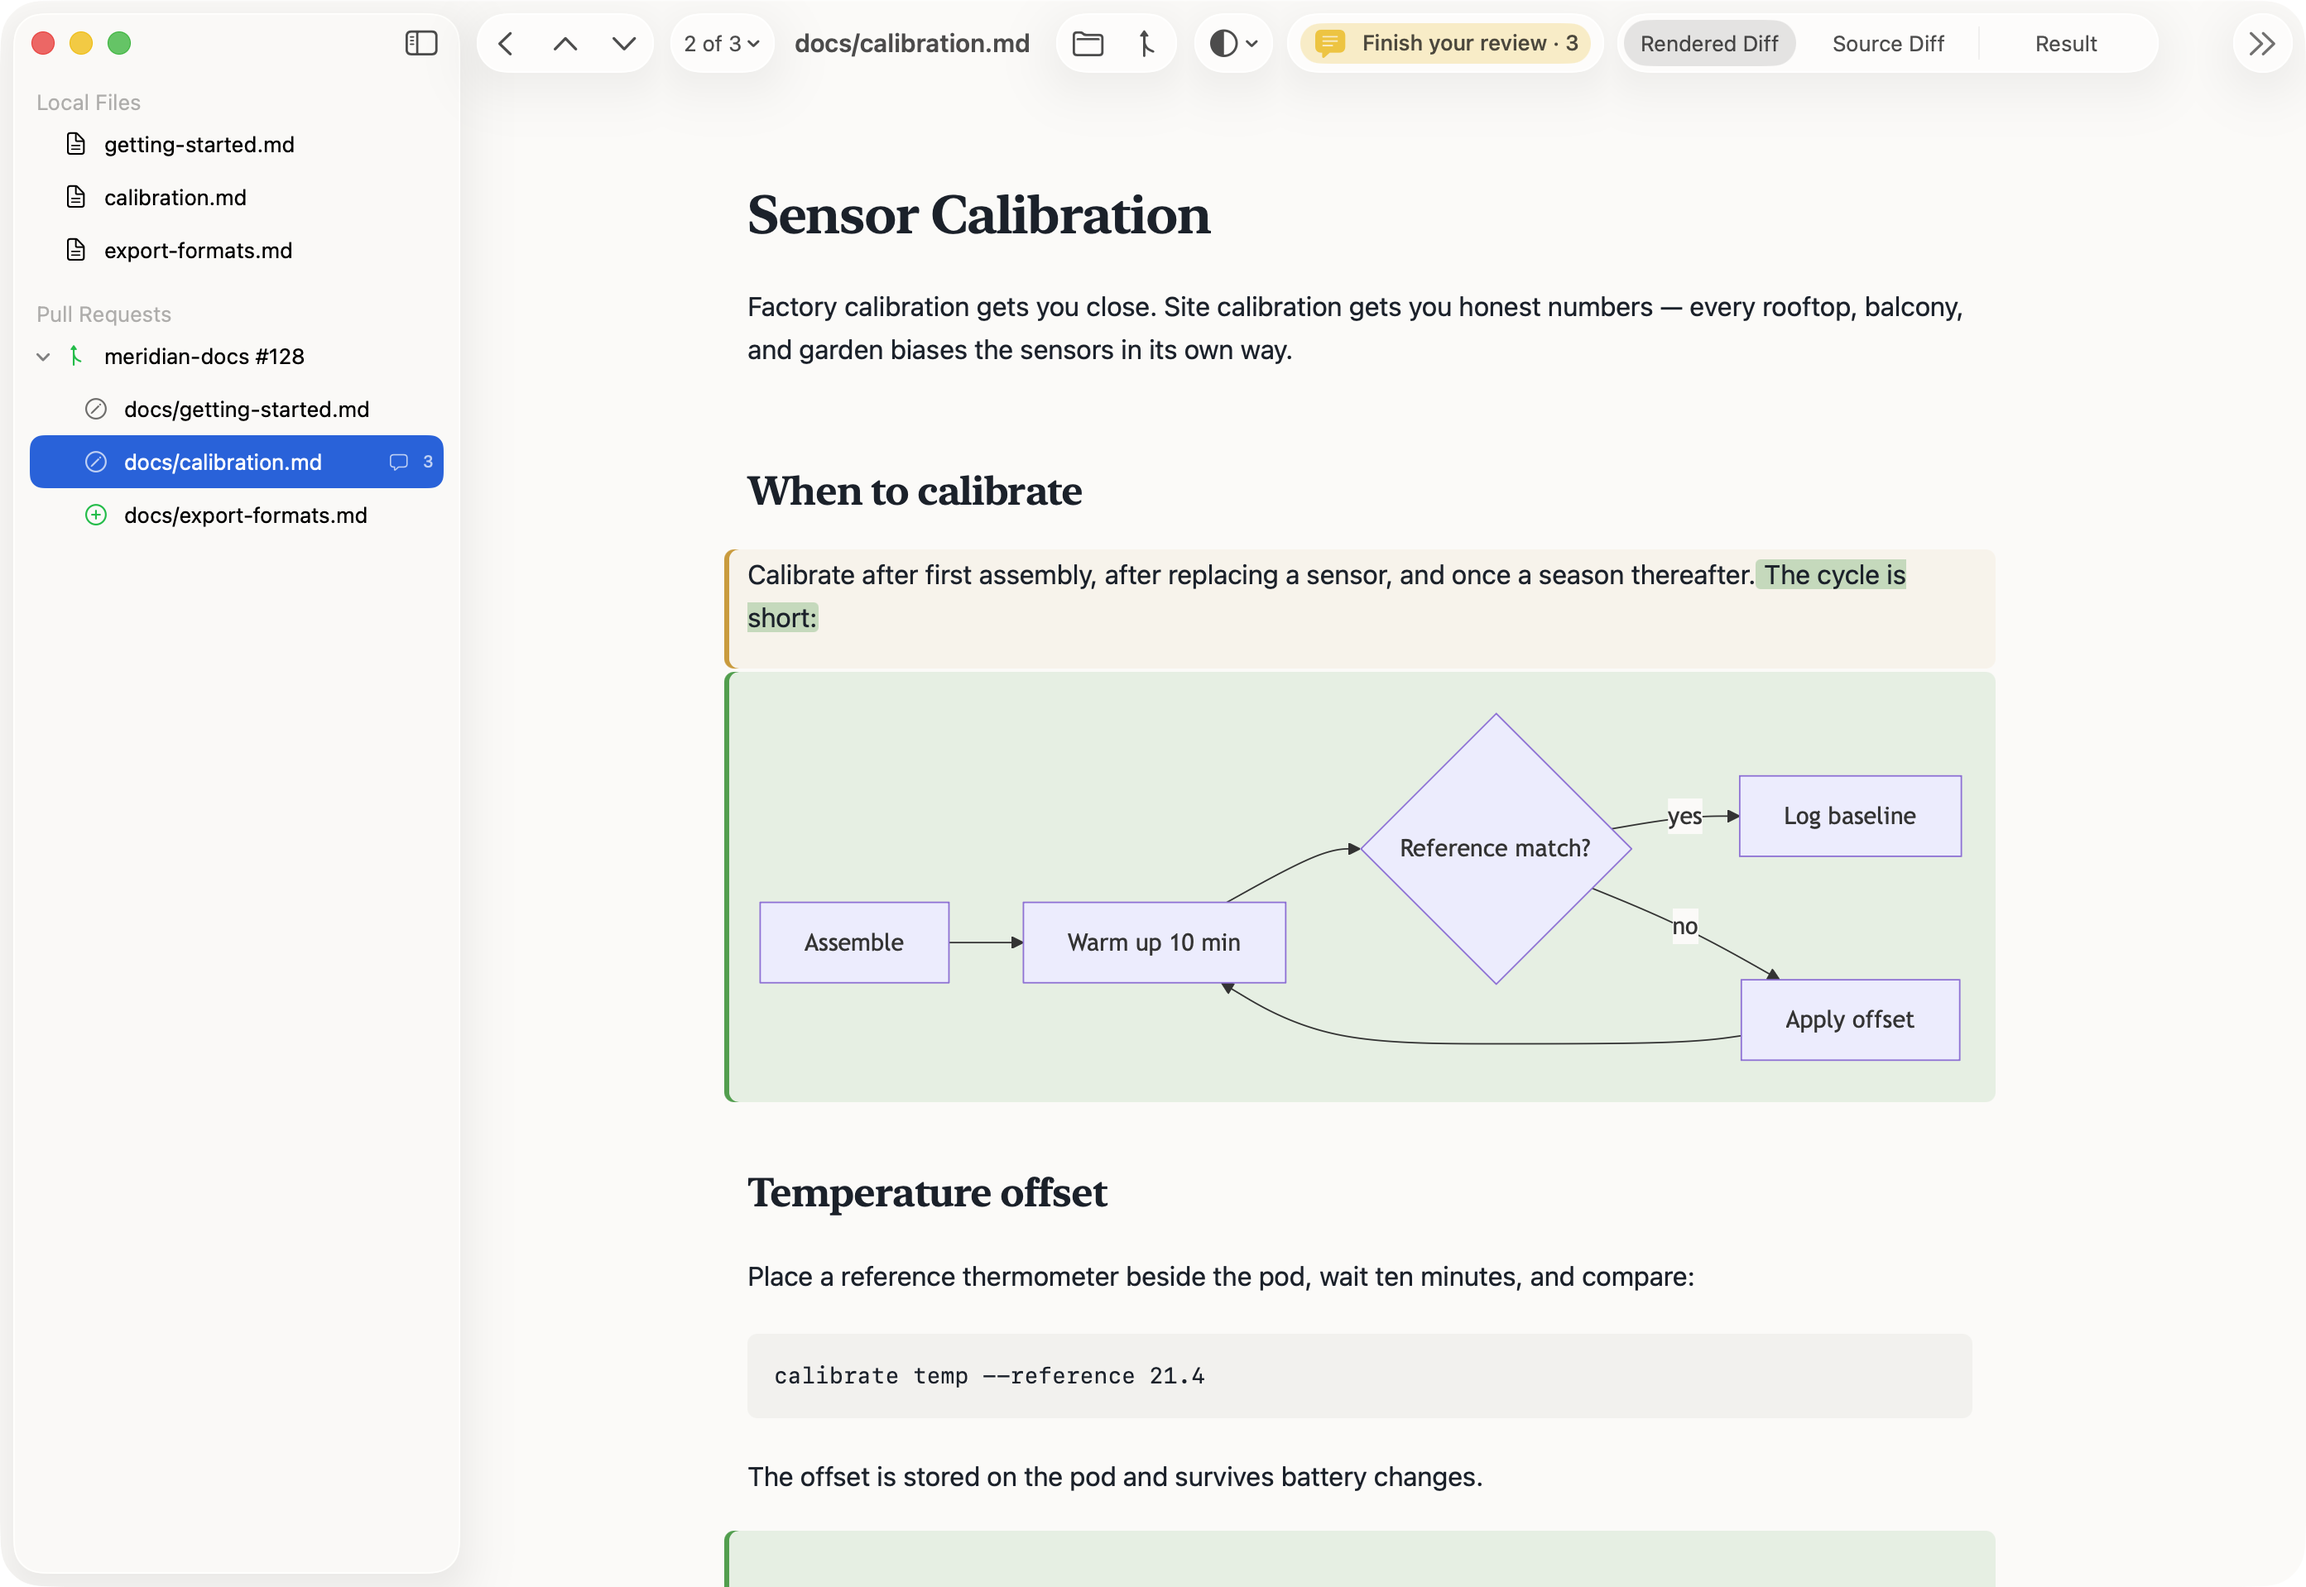
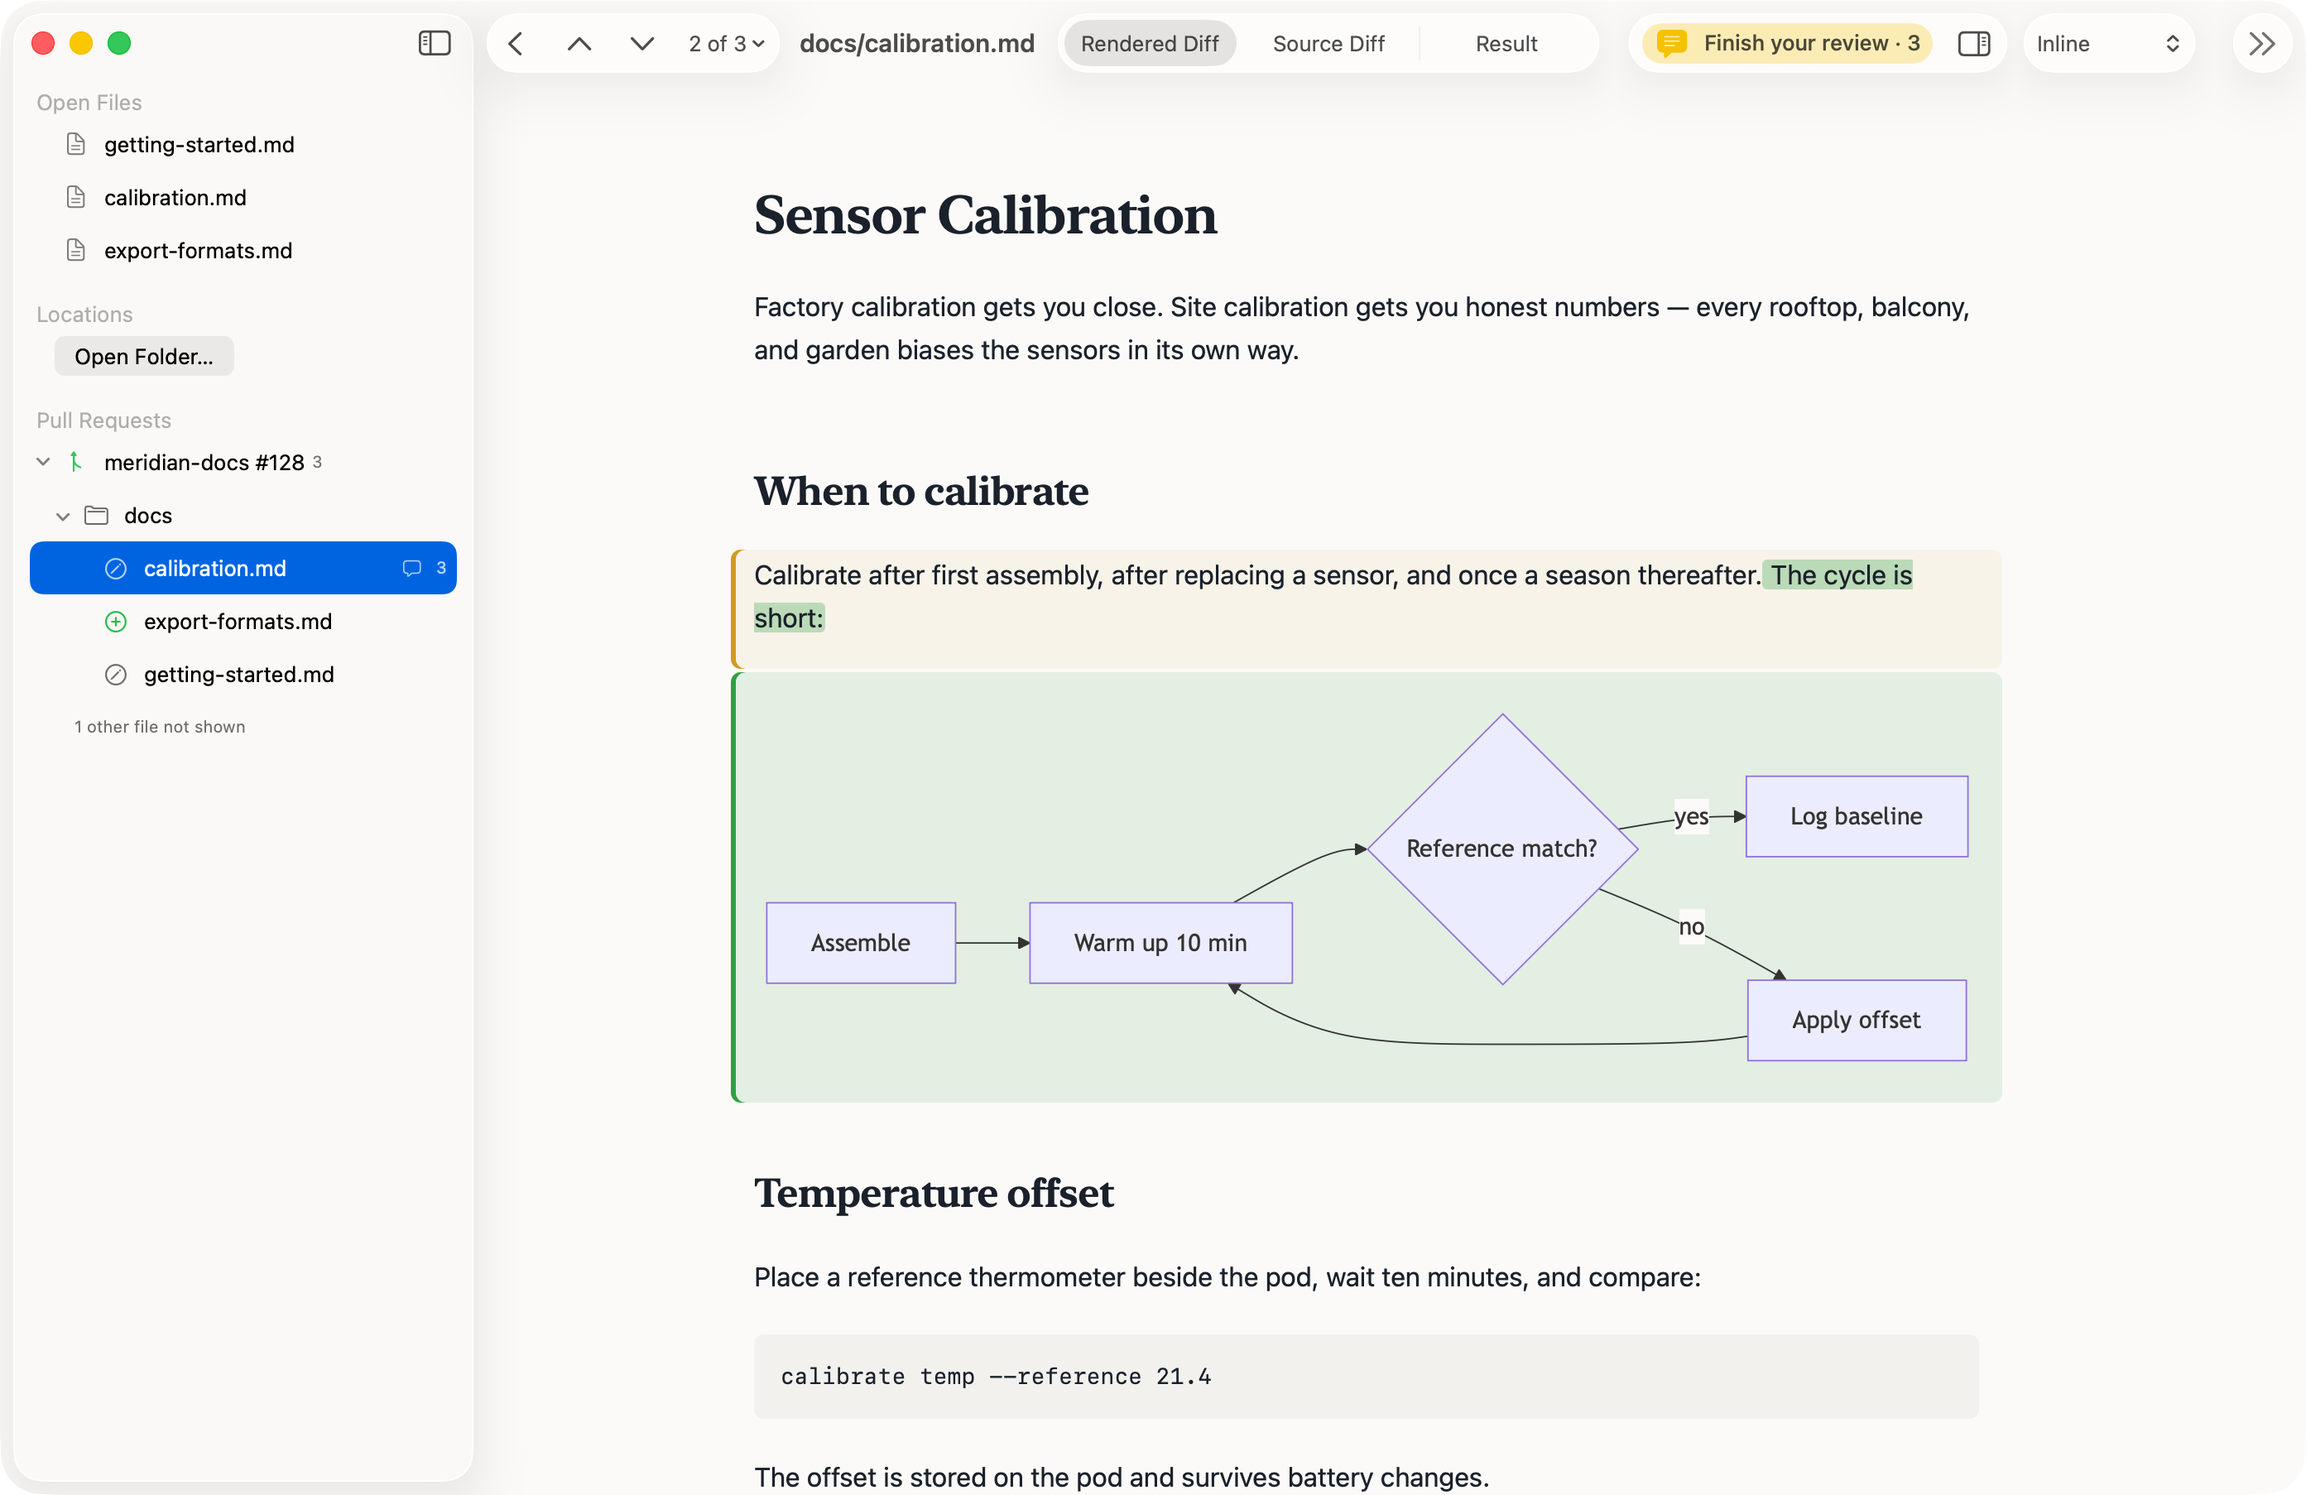
Refresh the PR-diff screenshot for 0.29.1
Retaken from the released app in the demo world: current sidebar,
the customizable toolbar with the restored navigation cluster, and
the default blue accent (captured via the argument-domain override —
per-process, nothing persisted). Height follows this display's limit.

Claude-Session: https://claude.ai/code/session_01JcXC4FCipx7zTVNRVbTjq6

diff --git a/site/index.html b/site/index.html
@@ -554,7 +554,7 @@ footer .note { margin-left: auto; }
     your drafts survive.</p>
 
     <figure class="shot reading-shot">
-      <img src="img/app-diff.png?v=4" width="1393" height="959" loading="lazy"
+      <img src="img/app-diff.png?v=5" width="1393" height="903" loading="lazy"
         alt="PullMark reviewing a documentation pull request: a rendered diff where a changed paragraph carries word-level highlights, an added Mermaid flowchart renders on a green added-block tint, the sidebar shows a comment count on the file, and the toolbar's review control reads Finish your review with three pending comments">
       <figcaption>A real patch to <code>github/docs</code>, in PullMark: the rendered diff makes it
       obvious at a glance that the edit broke the front matter — invisible in a
